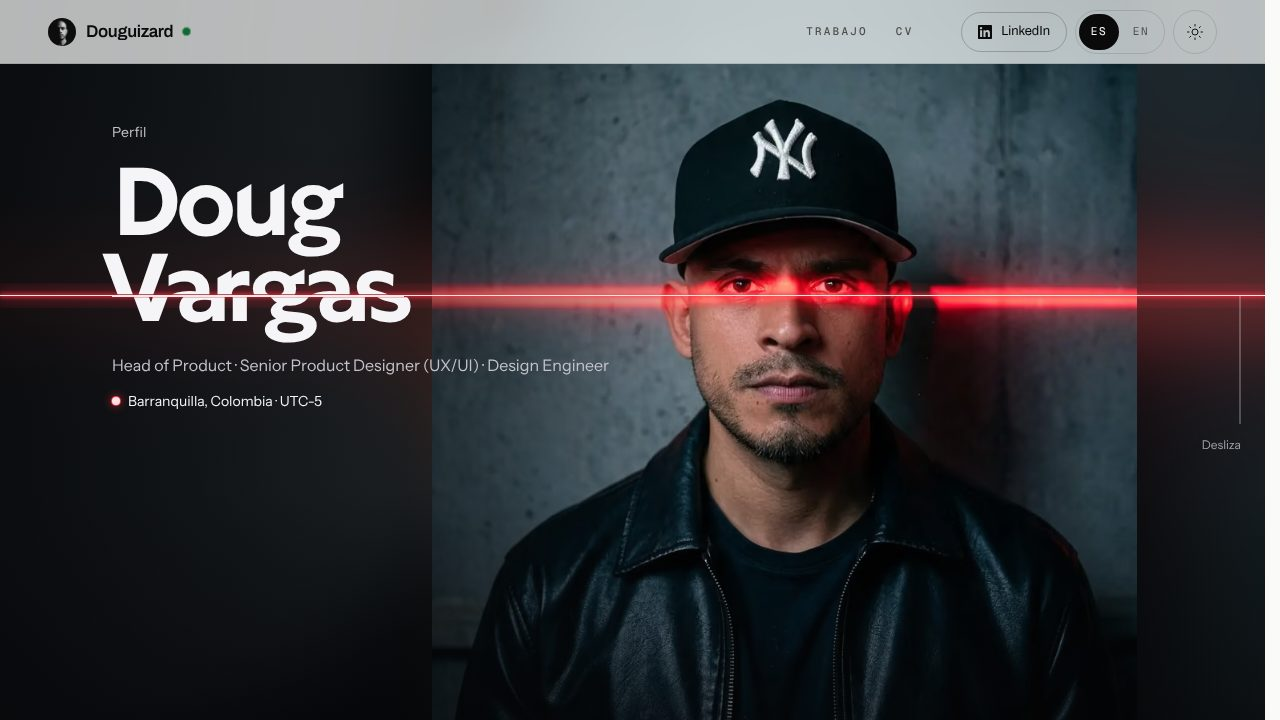
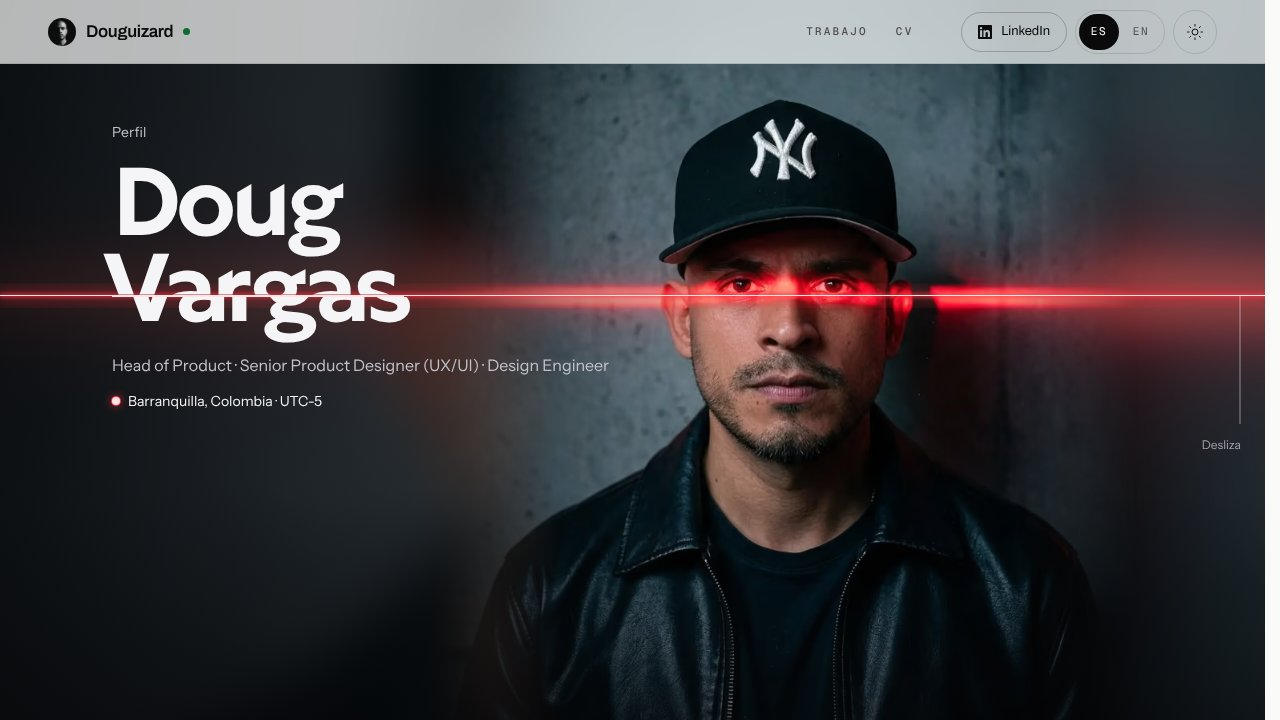
docs(rediseno): arreglos tras la crítica F2 y capturas de /about
Claude-Session: https://claude.ai/code/session_0115FVoBdp1pNTJVzKfpAY9b

Changed region(s): [[0.8125, 0.2444, 1.0, 0.825], [0.0938, 0.3667, 0.4062, 0.55], [0.3125, 0.1222, 0.4062, 0.3667]]

diff --git a/docs/rediseno-2026/F2-INFORME.md b/docs/rediseno-2026/F2-INFORME.md
@@ -163,3 +163,14 @@ Cruises» en el archivo, que es el `project` de `work.ts` (la maqueta abreviaba)
 - Doto `display: optional`: en la primera visita en frío el odómetro y las cifras salen con el respaldo (P2-8 de F1, F3).
 - Doug: marcas de `/about` (desvío 5), título de DC Medical (desvío 14), Chub (P15 de 04).
 - `docs/rediseno-2026/baseline-F0.json` no se tocó; `ESTADO.md` tampoco (lo cierra el orquestador).
+
+## Arreglos tras la crítica
+
+| Punto | Cambio | Verificación |
+|---|---|---|
+| **P1-1** `/about` ≥ 1024 | `.perfil-cine .poster`: `mask-image` con `--pluma` 18 %; la isla lo lleva a 0 entre p 0 y 0,6; atmósfera a `blur(28px) brightness(0.72) saturate(1.05)`. El láser no se tocó. | Capturas a 1280×720, 1440×900 y 1920×1080 en p 0 / 0,3 / 0,7 (`F2-capturas/about-*`): en p 0 sin costuras (salto máx. de columna 6,7–10,4 %, en el texto, no en bordes del póster); en p 0,3 y 0,7 solo el borde de la losa. `about.spec` verde (láser en la rendija). |
+| **P2-2** «Desliza» | Se apaga con `1 - clamp((p - 0.15) / 0.2)`. | Captura p 0,7 sin indicador sobre la losa. |
+| **P2-1** `/experience` | Saliente 120 ms; entrante 240 ms con 100 ms de retraso; `:focus-within` sin transición. | `experience.spec` verde. |
+| **P2-4** `/work` (< 1024) | Filtro con `mask-image` de 32 px al borde y `scroll-padding-inline: 16px`. | `work.spec` verde; sin desborde en `layout.spec`. |
+
+Lint, tsc, vitest (222) y Playwright (`about`, `experience`, `lockup`, `layout`, `work`, `a11y`: 176) en verde.
